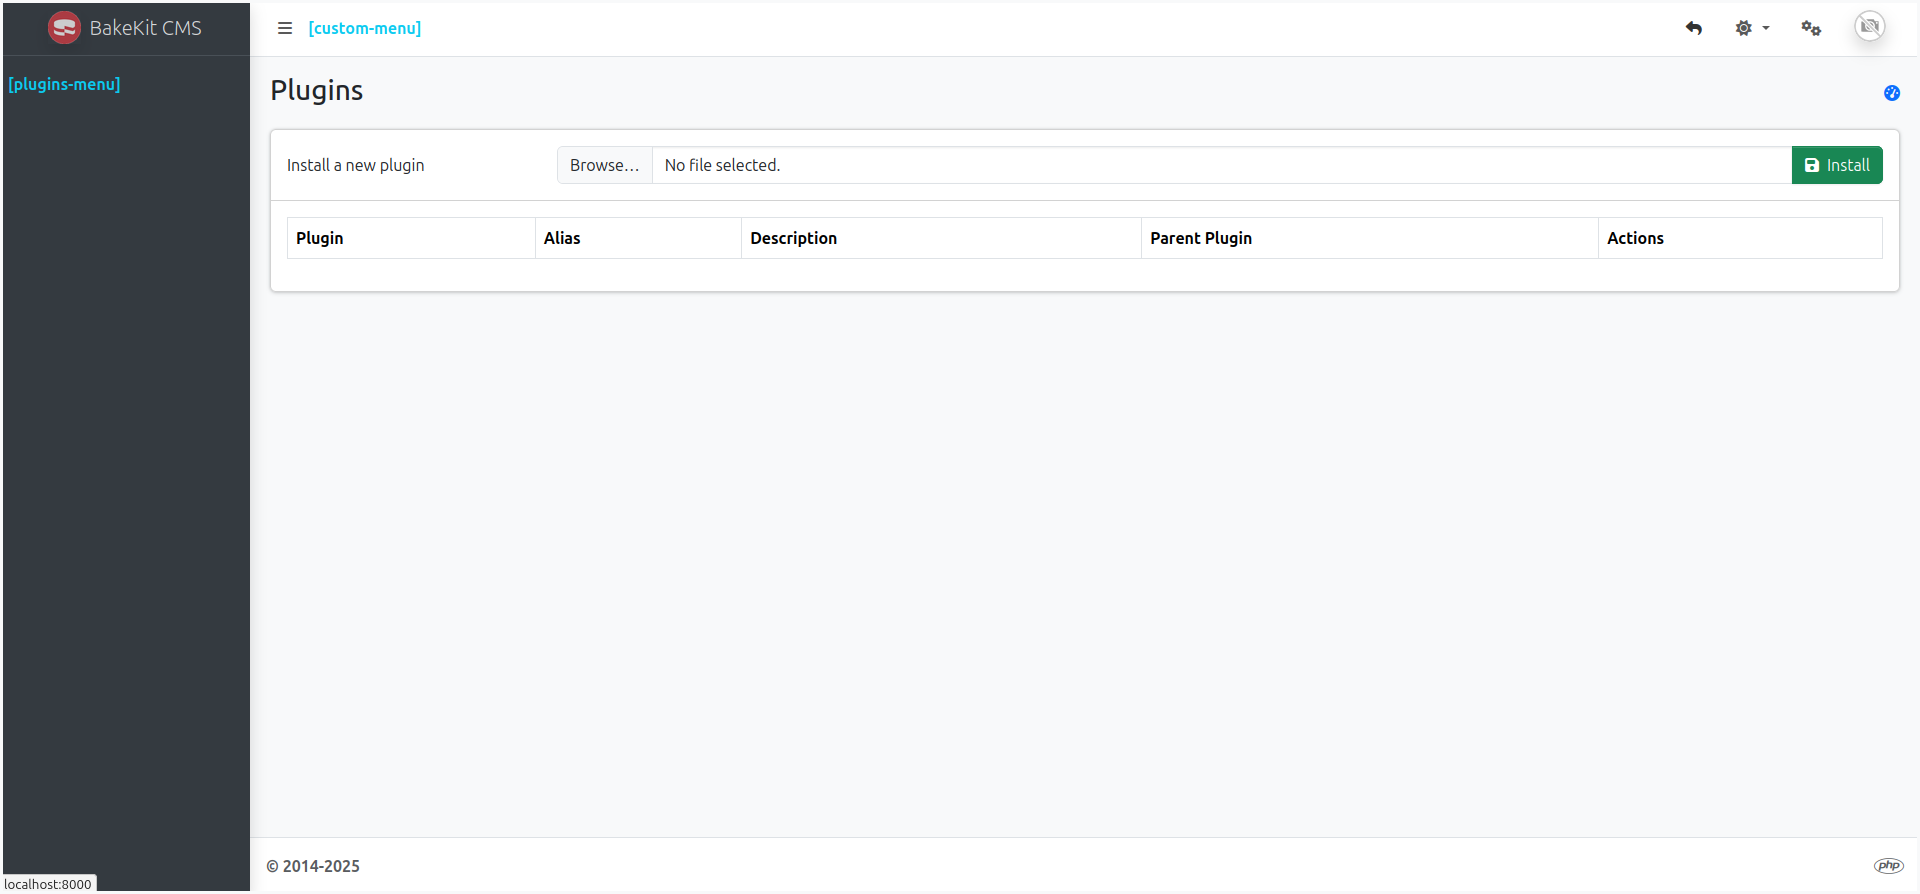
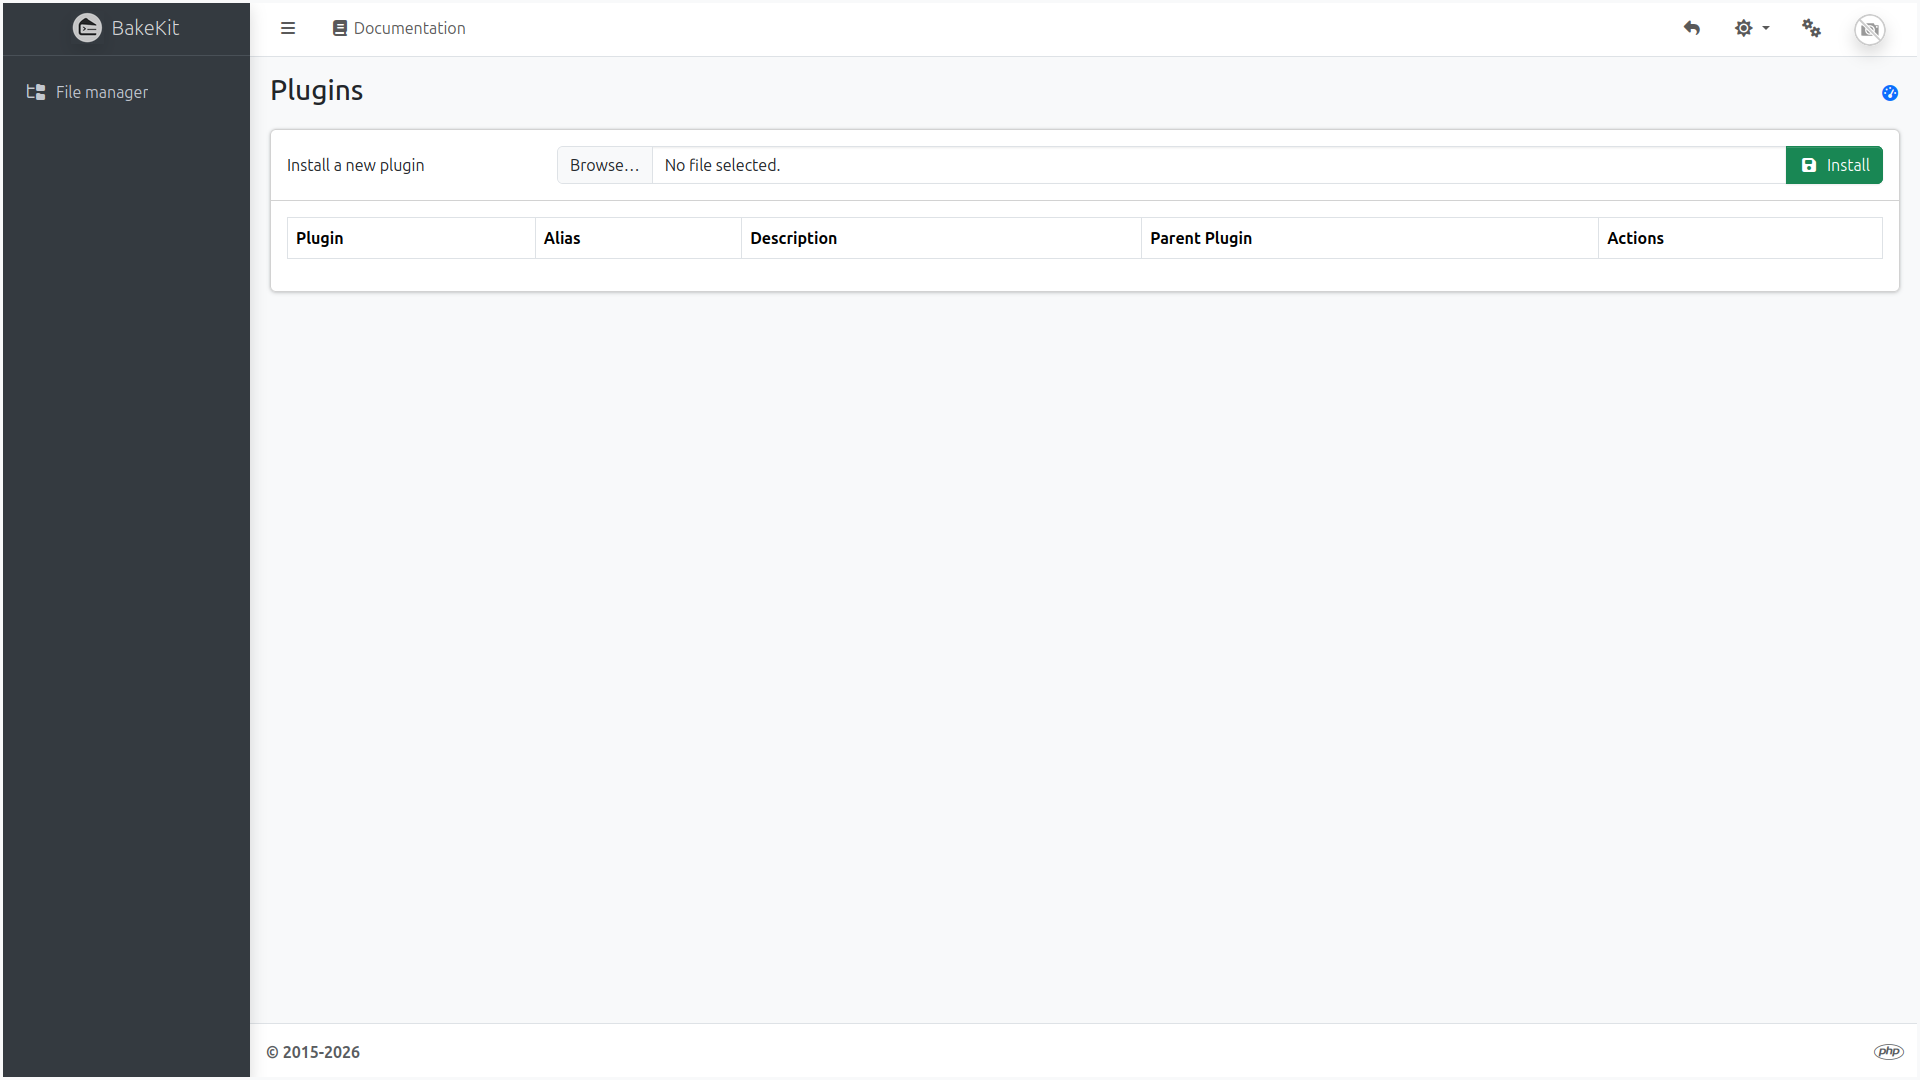
fixing docs

diff --git a/src/Form/ConfigForm.php b/src/Form/ConfigForm.php
@@ -21,7 +21,7 @@ class ConfigForm extends Form
     protected function _buildSchema(Schema $schema): Schema
     {
         return $schema
-                        ->addField('siteName', ['type' => 'string', 'default' => 'BakeKit CMS'])
+                        ->addField('siteName', ['type' => 'string', 'default' => 'BakeKit'])
                         ->addField('theme', 'string')
                         ->addField('defaultDashboard', ['type' => 'string', 'default' => 'System'])
                         ->addField('maintenance.mode', ['type' => 'boolean', 'default' => 0])

diff --git a/docs/quick-start.md b/docs/quick-start.md
@@ -1,21 +1,21 @@
-# 🚀 Quick Start – BakeKit CMS
+# 🚀 Quick Start – BakeKit
 
-Welcome to **BakeKit CMS**! This quick start guide will help you get up and running in minutes.
+Welcome to **BakeKit**! This quick start guide will help you get up and running in minutes.
 
-> This guide assumes you've already downloaded or cloned BakeKit CMS from GitHub and have it running in a local development environment.
+> This guide assumes you've already downloaded or cloned BakeKit from GitHub and have it running in a local development environment.
 
 ---
 
 ## 🧰 Site Management Panel
 
-Once launched, you’ll see a clean dashboard. All features in BakeKit CMS are **plugin-based**, so nothing is enabled by default.
+Once launched, you’ll see a clean dashboard. All features in BakeKit are **plugin-based**, so nothing is enabled by default.
 
-At the top of the dashboard, there are two predefined region placeholders:
+There are two predefined menus:
 
-- **[plugins-menu]** – For menus populated with plugin links (Pages, Blog, etc.)
-- **[custom-menu]** – For menus with custom links
+- **Plugins menu** – For menu populated with plugin links (Pages, Blog, etc.)
+- **Custom menu** – For menu with custom links
 
-![Site management](images/dashboard.png "Site management")
+![Dashboard](images/dashboard.png "Dashboard")
 
 To begin configuring your site, click the ⚙ **cogs icon** in the top-right corner of the dashboard to access the **Site Management Panel**, where you can:
 
@@ -45,85 +45,23 @@ rm -rf FileManager
 
 ---
 
-## 🧭 2. Add a Menu
+## 🧭 2. Edit a Menu Item
 
 1. Navigate to the **Menus** page.
-2. Click the **➕ icon** to create a new menu.
-3. Fill in the fields:
-    - **Name**: `Admin left accordion menu`
-    - **Description**: `Admin plugins menu`
-    - **Client**: Select `Backend`.
-    - **Enabled**: ✅ Checked.
-4. Click **Save & Close**.
-
-![Add menu](images/add-admin-menu.png "Add menu")
-
-The menu will appear in the **Menus** page:
+2. In the **Actions** column of **Plugins menu**, click the first button to manage menu links.
+3. Click the **📝 icon** to edit the first link.
+4. Click the **Link** button and choose **Plugin page** from the accordion **FileManager** tab.
+5. Click **Save & Close**.
 
 ![Menus](images/menus.png "Menus")
 
-To add links to the menu:
+![Plugins menu links](images/plugins-menu-links.png "Plugins menu links")
 
-1. In the **Actions** column, click the first button to manage menu links.
-2. Click the **➕ icon** to add a new link.
-3. Fill in the fields:
-    - **Title**: `FileManager`
-    - **Icon**: Enter a Bootstrap or FontAwesome class (e.g., bi-folder, fa fa-file)
-    - Click the **Link** button and choose **Plugin page** from the accordion.
-4. Click **Save & Close**.
-
-![Add menu link](images/add-menu-link.png "Add menu link")
-
-The new link will be added to the menu:
-
-![Menu link](images/add-admin-menu-link.png "Menu link")
+![Edit menu link](images/edit-menu-link.png "Edit menu link")
 
 ---
 
-## 🧱 3. Add a Region with a Block
-
-To render the admin menu in your layout:
-
-1. Go to **Regions & Blocks**.
-2. Click the **➕ icon** to create a new region.
-3. Enter the details:
-    - **Alias**: `plugins-menu` (must match the placeholder name).
-    - **Description**: `Plugins menu region`.
-4. Click **Save & Close**.
-
-![Add region](images/add-region.png "Add region")
-
-The region will now appear in the list:
-
-![Regions](images/regions.png "Regions")
-
-To add a block to the region:
-
-1. In the **Actions** column, click the first button to manage blocks.
-2. Click the **➕ icon** to create a block.
-3. Fill in the details:
-    - **Alias**: `plugins-menu-block` (must be a unique identifier: a-z, 0-9, -).
-    - **Title**: `Plugins menu block`.
-    - **Description**: `Plugins menu block containing plugins menu`.
-    - Click the **Cell** button and choose **'Menu cell'** from the accordion.
-    - **Enabled**: ✅ Checked.
-4. Click **Save & Close**.
-
-![Blocks](images/blocks.png "Blocks")
-
-Finally, configure the new block:
-
-1. In the **Actions** column, click the ⚙ **icon**.
-2. Select **Admin left accordion menu** from the dropdown.
-3. Click **Save**.
-
-![Blocks saved](images/block-settings.png "Blocks saved")
-
-You should now see the **FileManager** link in the admin sidebar.
-
----
-
-## 📦 4. Load a Theme
+## 📦 3. Load a Theme
 
 To install and activate a new theme:
 
@@ -137,7 +75,7 @@ To install and activate a new theme:
 
 ## 🛠 Next Steps
 
-BakeKit CMS is now set up!
+BakeKit is now set up!
 
 You can now:
 

diff --git a/docs/access-control.md b/docs/access-control.md
@@ -1,8 +1,8 @@
 # 🔐 Access Control
 
-BakeKit CMS provides a powerful, flexible access control system for managing users, roles, and permissions.
+BakeKit provides a powerful, flexible access control system for managing users, roles, and permissions.
 It uses hierarchical roles and dynamic action detection from plugins to automatically identify available actions.
-This approach gives you fine-grained, dynamic control over what users can see and do within the CMS, making it easy to adapt permissions as your project grows.
+This approach gives you fine-grained, dynamic control over what users can see and do within the system, making it easy to adapt permissions as your project grows.
 
 ---
 
@@ -52,7 +52,7 @@ Each child can **inherit**, **allow**, or **deny** specific actions.
 
 ## 4. 🗂 Resources
 
-`Resources` are the actions of BakeKit CMS that you can control with permissions.
+`Resources` are the actions of BakeKit that you can control with permissions.
 
 They are organized hierarchically, like roles:
 

diff --git a/docs/plugins.md b/docs/plugins.md
@@ -29,14 +29,30 @@ Each plugin **must** contain a valid `composer.json`, for example:
 
 ```json
 {
-  "name": "bakewizard/filemanager",
-  "description": "FileManager plugin for BakeKit CMS",
-  "type": "cakephp-plugin",
-  "autoload": {
-    "psr-4": {
-      "FileManager\\": "src/"
+    "name": "bakewizard/filemanager",
+    "description": "FileManager plugin for BakeKit",
+    "license": "MIT",
+    "type": "cakephp-plugin",
+    "keywords": ["cakephp", "plugin", "file-manager", "file-browser", "bakekit"],
+    "require": {
+        "php": ">=8.3",
+        "cakephp/cakephp": "5.3.*",
+        "bakewizard/bakekit": "^1.0"
+    },
+    "require-dev": {
+        "phpunit/phpunit": "^11.5.3 || ^12.1.3 || ^13.0"
+    },
+    "autoload": {
+        "psr-4": {
+            "FileManager\\": "src/"
+        }
+    },
+    "autoload-dev": {
+        "psr-4": {
+            "FileManager\\Test\\": "tests/",
+            "FileManager\\Test\\Fixture\\": "tests/Fixture/"
+        }
     }
-  }
 }
 ```
 

diff --git a/docs/regions-blocks.md b/docs/regions-blocks.md
@@ -1,6 +1,6 @@
 # 🧩 Regions & Blocks
 
-Regions & Blocks are the foundation for dynamic content in **BakeKit CMS** themes.
+Regions & Blocks are the foundation for dynamic content in **BakeKit** themes.
 Themes use region placeholders to mark where dynamic content should appear. These placeholders are defined using:
 
 ```php
@@ -28,7 +28,7 @@ Blocks are the actual content rendered in regions. A block can either:
 - Contain **plain text** (manually entered content).
 - Render a **[CakePHP 5 cell](https://book.cakephp.org/5/en/views/cells.html)**, optionally with settings and a custom template.
 
-Blocks act as wrappers for CakePHP cells. This makes it easy to drop in CMS widgets like menus, article listings, or custom features.
+Blocks act as wrappers for CakePHP cells. This makes it easy to drop in widgets like menus, article listings, or custom features.
 
 ---
 

diff --git a/docs/install.md b/docs/install.md
@@ -1,6 +1,6 @@
 # 🛠 Install BakeKit
 
-Follow the steps below to install **BakeKit**, a modular CakePHP 5-based CMS starter with support for plugins, themes, widgets, and more.
+Follow the steps below to install **BakeKit**, a modular CakePHP 5-based web application starter kit with support for plugins, themes, widgets, and more.
 
 ---
 
@@ -8,7 +8,7 @@ Follow the steps below to install **BakeKit**, a modular CakePHP 5-based CMS sta
 
 Make sure your environment meets the following:
 
-- PHP **8.1+**
+- PHP **8.3+**
 - [Composer](https://getcomposer.org/)
 - A web server (e.g., Apache or Nginx)
 - A database (MySQL, MariaDB, etc.)

diff --git a/docs/menus.md b/docs/menus.md
@@ -1,6 +1,6 @@
 # 📑 Menus
 
-Menus in **BakeKit CMS** allow you to create navigational structures for both the backend (admin interface) and frontend. They are fully customizable and can contain static or dynamic links. Menus can be rendered anywhere in your theme using a region + block combination, just like any other widget.
+Menus in **BakeKit** allow you to create navigational structures for both the backend (admin interface) and frontend. They are fully customizable and can contain static or dynamic links. Menus can be rendered anywhere in your theme using a region + block combination, just like any other widget.
 
 ---
 

diff --git a/docs/index.md b/docs/index.md
@@ -1,6 +1,6 @@
-# 🎉 Welcome to BakeKit CMS
+# 🎉 Welcome to BakeKit
 
-**BakeKit** is a modern CMS boilerplate built with **CakePHP 5**, featuring a clean Admin Panel and everything you need to get started fast.
+**BakeKit** is a modern web application boilerplate built with **CakePHP 5**, featuring a clean Admin Panel and everything you need to get started fast.
 
 Core features include:
 
